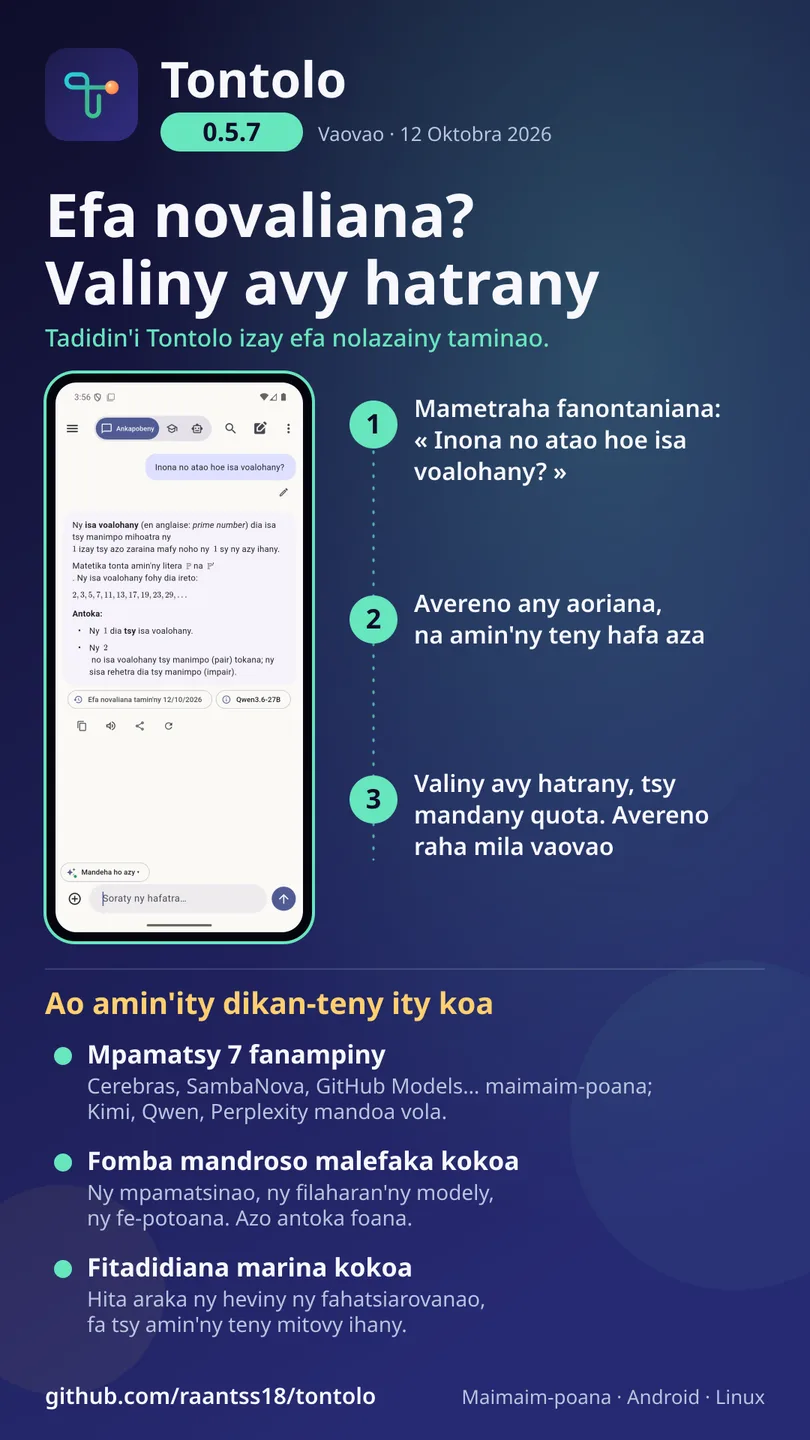
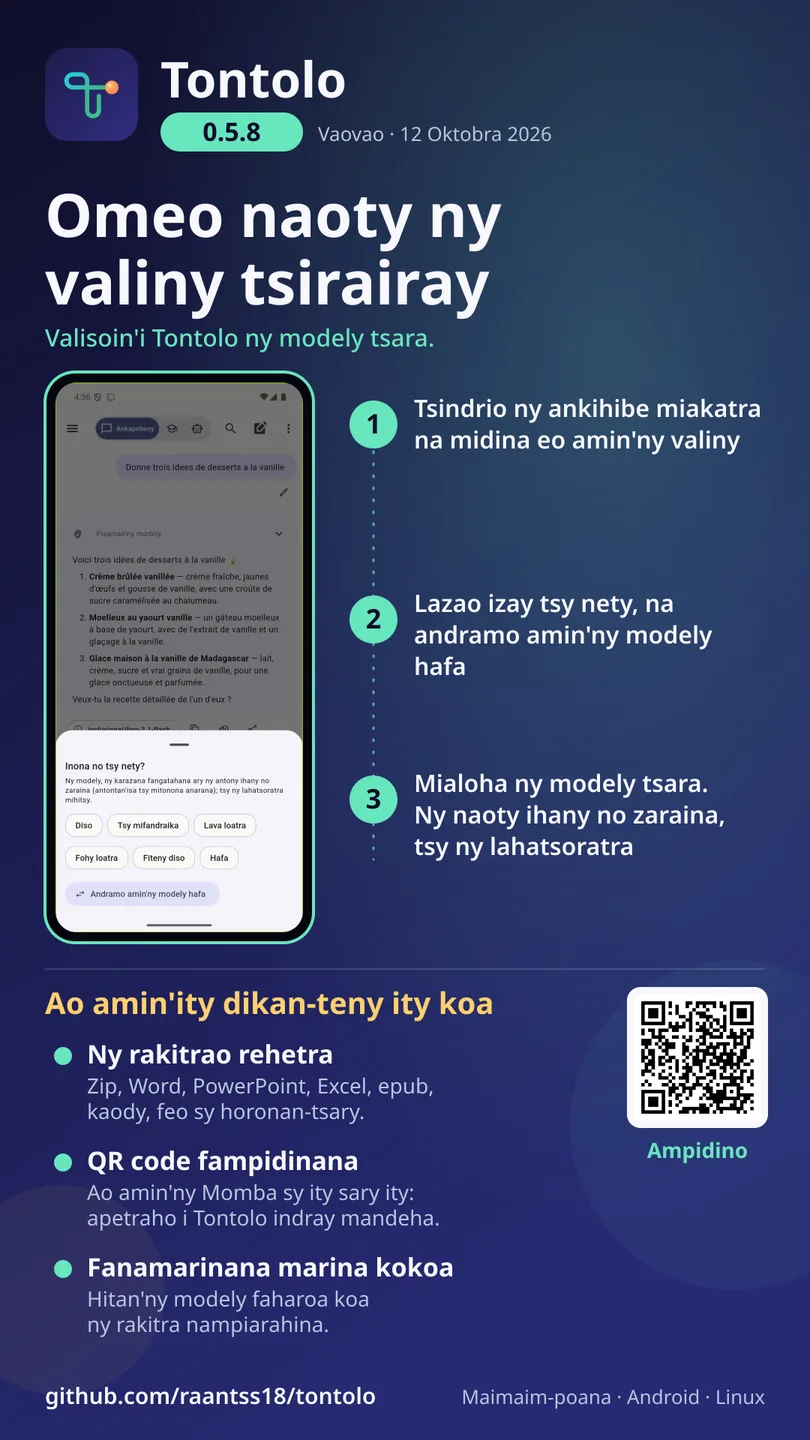
Version 0.5.8 : notes 👍/👎, pièces jointes de tous types, QR code ; budget de la roue à 300 Ko

diff --git a/app/lib/core/whats_new.dart b/app/lib/core/whats_new.dart
@@ -14,6 +14,16 @@ class NewsItem {
 }
 
 const whatsNew = <String, List<NewsItem>>{
+  '0.5.8': [
+    NewsItem(Icons.thumbs_up_down_outlined, 'Notez chaque réponse',
+        'Touchez 👍 ou 👎 sous une réponse : Tontolo favorise les modèles qui réussissent ce type de demande. Après un 👎, dites ce qui n\'allait pas ou réessayez avec un autre modèle. Seule la note est partagée (statistiques anonymes), jamais le texte.',
+        'Rate every answer', 'Tap 👍 or 👎 under an answer: Tontolo favors the models that succeed at this kind of request. After a 👎, say what was wrong or retry with another model. Only the rating is shared (anonymous statistics), never the text.',
+        mg: 'Omeo naoty ny valiny tsirairay', mgText: 'Tsindrio 👍 na 👎 eo ambanin\'ny valiny: ankasitrahan\'i Tontolo ny modely mahomby amin\'io karazana fangatahana io. Aorian\'ny 👎, lazao izay tsy nety na andramo amin\'ny modely hafa. Ny naoty ihany no zaraina (antontan\'isa tsy mitonona anarana), tsy ny lahatsoratra mihitsy.'),
+    NewsItem(Icons.attach_file, 'Tous vos fichiers, et un QR code',
+        'Joignez un zip, un Word, un PowerPoint, un Excel, un epub, du code, un son ou une vidéo : Tontolo les lit ou les transcrit. Le QR code d\'À propos permet d\'installer Tontolo sur un autre téléphone.',
+        'All your files, and a QR code', 'Attach a zip, Word, PowerPoint, Excel, epub, code, audio or video: Tontolo reads or transcribes them. The QR code in About lets you install Tontolo on another phone.',
+        mg: 'Ny rakitrao rehetra, sy QR code', mgText: 'Ampiarahony zip, Word, PowerPoint, Excel, epub, kaody, feo na horonan-tsary: vakian\'i Tontolo na soratany. Ny QR code ao amin\'ny Momba dia ahafahana mametraka an\'i Tontolo amin\'ny finday hafa.'),
+  ],
   '0.5.7': [
     NewsItem(Icons.history, 'Déjà répondu ? Réponse immédiate',
         'Reposez une question, même autrement : Tontolo reprend sa réponse aussitôt, sans quota, et l\'indique (« Déjà répondu le … »). Jamais pour l\'actualité ni une question personnelle. Régénérer en donne une nouvelle. Tout reste sur l\'appareil.',

diff --git a/app/lib/core/updater.dart b/app/lib/core/updater.dart
@@ -21,7 +21,7 @@ import 'storage_dirs.dart';
 import '../l10n/strings.dart';
 import 'prefs.dart';
 
-const appVersion = '0.5.7';
+const appVersion = '0.5.8';
 const repo = 'raantss18/tontolo';
 
 enum UpdateStatus { idle, checking, downloading, ready, failed, upToDate }

diff --git a/press/posters/build_poster.py b/press/posters/build_poster.py
@@ -66,7 +66,13 @@ def width(s: str, size: int, bold: bool = False) -> float:
 
 
 def check_layout(t: dict, lang: str) -> None:
-    """Les autres changements s'arrêtent avant le QR code (x = 820)."""
+    """Les autres changements s'arrêtent avant le QR code (x = 820) ; pas d'émoji (la police du
+    poster ne les dessine pas : ils sortaient en traits illisibles)."""
+    import json as _json
+
+    if any(ord(c) >= 0x1F000 or 0x2600 <= ord(c) < 0x2800 for c in _json.dumps(
+            t, ensure_ascii=False)):
+        raise SystemExit(f"[{lang}] émoji dans le texte du poster : remplacez-le par des mots")
     for title, rows in t["items"]:
         if 116 + width(title, 34, True) > 820:
             raise SystemExit(f"[{lang}] titre trop long (chevauche le QR) : {title}")

diff --git a/core/tontolo/__init__.py b/core/tontolo/__init__.py
@@ -1,3 +1,3 @@
 """Tontolo — hub d'IA libre qui route vers le meilleur modèle gratuit disponible."""
 
-__version__ = "0.5.7"
+__version__ = "0.5.8"

diff --git a/CHANGELOG.md b/CHANGELOG.md
@@ -5,6 +5,28 @@ Format : [Keep a Changelog](https://keepachangelog.com/fr/1.1.0/), versionnement
 
 ## [Non publié]
 
+## [0.5.8] - 2026-10-12
+
+### Ajouté
+- Notes 👍 / 👎 sous chaque réponse. Une note récompense ou pénalise le modèle pour ce type
+  de demande (effet borné, visible dans « Pourquoi ce modèle »). Après un 👎 : raisons
+  rapides (inexact, hors sujet, trop long…) et « Réessayer avec un autre modèle ». Une
+  réponse 👎 n'est plus jamais réutilisée. Avec l'accord « Statistiques anonymes », seuls le
+  modèle, le type de demande, la note et la raison sont partagés, jamais le texte. Chaque
+  jour, les notes collectives (solde des appareils, à partir de 5) ajustent aussi le
+  classement, plus faiblement. Script Supabase : `docs/stats/supabase_ratings.sql`.
+- Pièces jointes de tous types : Word, PowerPoint, Excel, OpenDocument, epub, rtf, texte et
+  code (md, csv, json, py…), archives zip et tar (contenu listé et lu), son et vidéo
+  transcrits (piste son extraite par ffmpeg s'il est installé). Garde-fous : bombes zip,
+  chemins sortants, liens symboliques et XML piégé refusés ; rien n'est exécuté.
+- QR code vers le téléchargement : dans « À propos » (dernière version) et sur le poster de
+  chaque version (page de cette version).
+
+### Corrigé
+- Le second modèle qui relit les réponses ne voyait pas les fichiers joints : il prenait
+  leur contenu pour une invention. Il voit maintenant les documents et la fin du fil.
+- Plus de questions à choix pour une demande de résumé (« résume ce fichier »).
+
 ## [0.5.7] - 2026-10-12
 
 ### Ajouté

diff --git a/TASKS.md b/TASKS.md
@@ -325,7 +325,7 @@ Principe : rien de ce qui est écrit ne quitte l'appareil ; seule la note (modè
 - [ ] N7. Le propriétaire exécute docs/stats/supabase_ratings.sql dans Supabase (syntaxe validée avec l'analyseur PostgreSQL ; pas encore exécuté sur une vraie base)
 - [x] Essai émulateur : 👍/👎 visibles, panneau des raisons (malgache), « autre modèle » (ling-3.1-flash → Qwen3.6), note enregistrée ; QR « À propos » lu depuis l'écran (zbarimg)
 - [x] Q1. QR code vers le téléchargement : généré par script (`qrencode`), vérifié par lecture (`zbarimg`) ; dans « À propos » (dernière version) et sur le poster de chaque version (page de cette version)
-- [ ] R. Version 0.5.8 : CHANGELOG, nouveautés fr/en/mg, poster (avec QR), tests, essais émulateur
+- [x] R. Version 0.5.8 : CHANGELOG, nouveautés fr/en/mg, poster (avec QR), tests, essais émulateur
 
 ## Pièces jointes de tous types (demande du 2026-10-12)
 Outils gratuits, locaux d'abord ; rien n'est exécuté depuis une pièce jointe.
